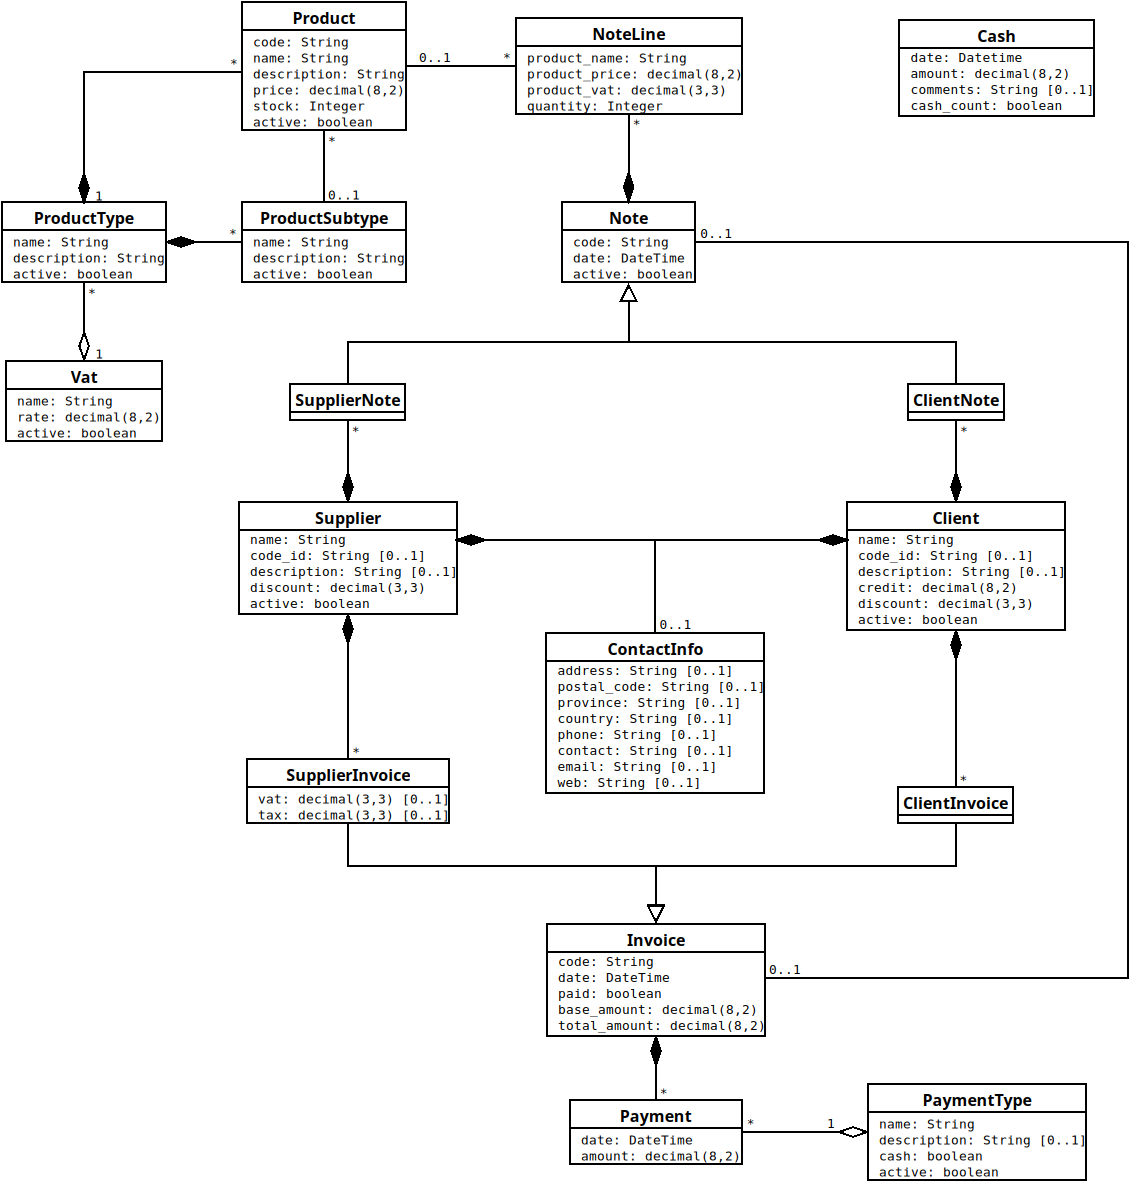
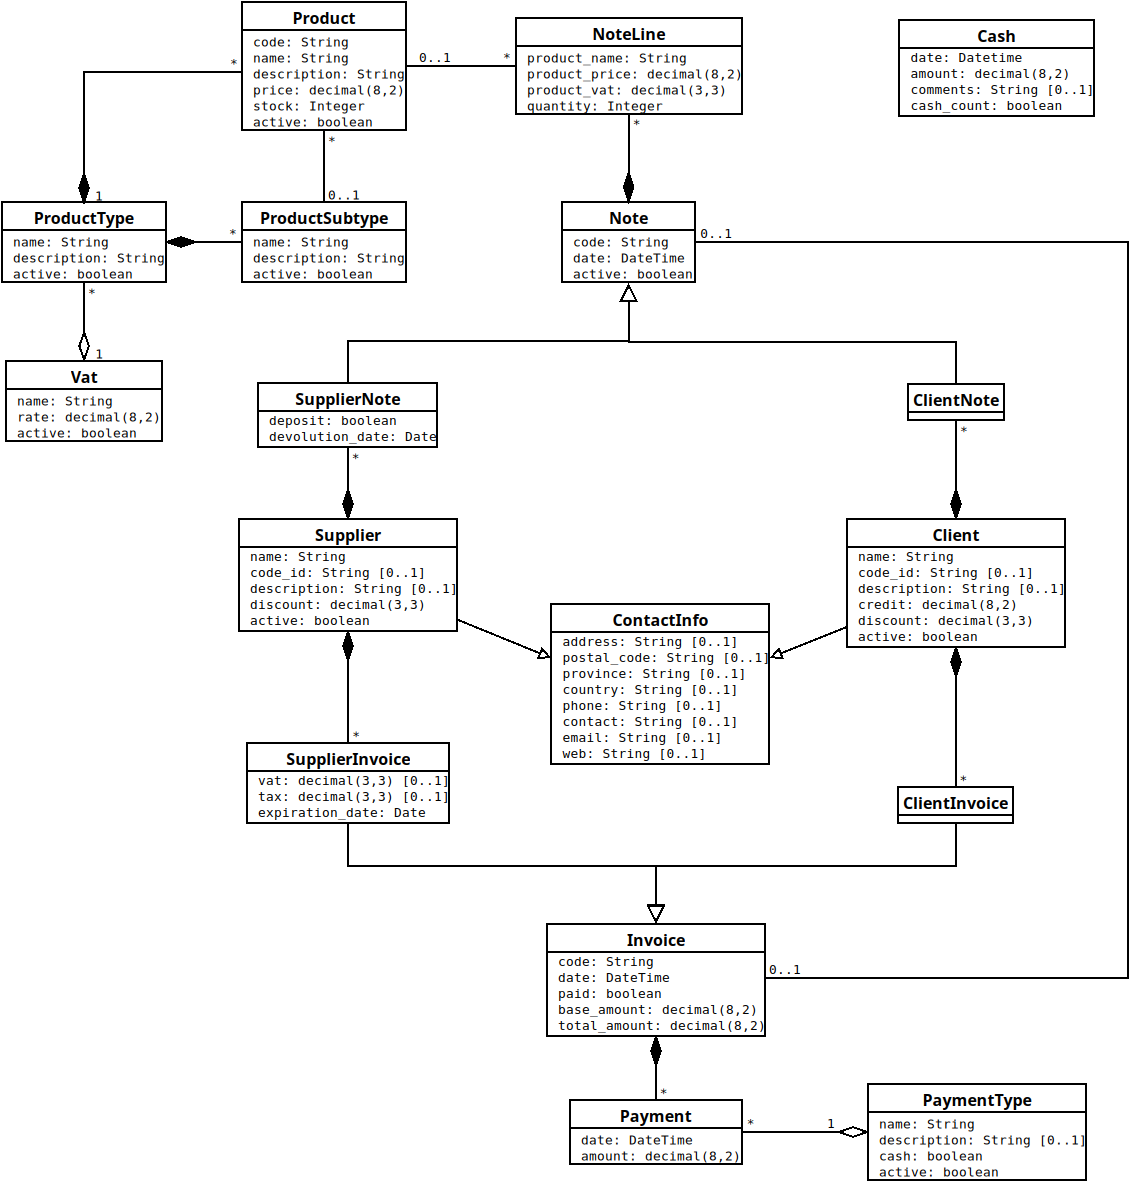
Expiration date for suppliers invoices

diff --git a/db/schema.rb b/db/schema.rb
@@ -49,7 +49,7 @@ ActiveRecord::Schema[8.0].define(version: 2025_08_09_084411) do
     t.string "email"
     t.string "web"
     t.string "contactable_type"
-    t.bigint "contactable_id"
+    t.integer "contactable_id"
     t.datetime "created_at", null: false
     t.datetime "updated_at", null: false
     t.index ["contactable_type", "contactable_id"], name: "index_contact_infos_on_contactable"
@@ -63,10 +63,11 @@ ActiveRecord::Schema[8.0].define(version: 2025_08_09_084411) do
     t.decimal "vat", precision: 3, scale: 3
     t.decimal "tax", precision: 3, scale: 3
     t.boolean "paid", default: false, null: false
-    t.bigint "note_id"
-    t.bigint "client_id"
-    t.bigint "supplier_id"
+    t.integer "note_id"
+    t.integer "client_id"
+    t.integer "supplier_id"
     t.string "type", null: false
+    t.date "expiration_date"
     t.datetime "created_at", null: false
     t.datetime "updated_at", null: false
     t.index ["client_id"], name: "index_invoices_on_client_id"
@@ -79,8 +80,8 @@ ActiveRecord::Schema[8.0].define(version: 2025_08_09_084411) do
     t.decimal "product_price", precision: 8, scale: 2, null: false
     t.decimal "product_vat", precision: 3, scale: 3, null: false
     t.integer "quantity", default: 1, null: false
-    t.bigint "note_id", null: false
-    t.bigint "product_id", null: false
+    t.integer "note_id", null: false
+    t.integer "product_id", null: false
     t.datetime "created_at", null: false
     t.datetime "updated_at", null: false
     t.index ["note_id"], name: "index_note_lines_on_note_id"
@@ -91,8 +92,8 @@ ActiveRecord::Schema[8.0].define(version: 2025_08_09_084411) do
     t.string "code", default: "", null: false
     t.datetime "date"
     t.boolean "active", default: true, null: false
-    t.bigint "client_id"
-    t.bigint "supplier_id"
+    t.integer "client_id"
+    t.integer "supplier_id"
     t.string "type", null: false
     t.boolean "deposit"
     t.date "devolution_date"
@@ -113,8 +114,8 @@ ActiveRecord::Schema[8.0].define(version: 2025_08_09_084411) do
 
   create_table "payments", force: :cascade do |t|
     t.datetime "date"
-    t.bigint "invoice_id", null: false
-    t.bigint "payment_type_id", null: false
+    t.integer "invoice_id", null: false
+    t.integer "payment_type_id", null: false
     t.decimal "amount", precision: 8, scale: 2, null: false
     t.datetime "created_at", null: false
     t.datetime "updated_at", null: false
@@ -126,7 +127,7 @@ ActiveRecord::Schema[8.0].define(version: 2025_08_09_084411) do
     t.string "name", default: "", null: false
     t.string "description"
     t.boolean "active", default: true, null: false
-    t.bigint "product_type_id", null: false
+    t.integer "product_type_id", null: false
     t.datetime "created_at", null: false
     t.datetime "updated_at", null: false
     t.index ["product_type_id"], name: "index_product_subtypes_on_product_type_id"
@@ -136,7 +137,7 @@ ActiveRecord::Schema[8.0].define(version: 2025_08_09_084411) do
     t.string "name", default: "", null: false
     t.string "description"
     t.boolean "active", default: true, null: false
-    t.bigint "vat_id", null: false
+    t.integer "vat_id", null: false
     t.datetime "created_at", null: false
     t.datetime "updated_at", null: false
     t.index ["vat_id"], name: "index_product_types_on_vat_id"
@@ -152,8 +153,8 @@ ActiveRecord::Schema[8.0].define(version: 2025_08_09_084411) do
     t.string "image_url"
     t.decimal "price", precision: 8, scale: 2, null: false
     t.integer "stock", default: 0, null: false
-    t.bigint "product_type_id", null: false
-    t.bigint "product_subtype_id"
+    t.integer "product_type_id", null: false
+    t.integer "product_subtype_id"
     t.boolean "active", default: true, null: false
     t.datetime "created_at", null: false
     t.datetime "updated_at", null: false

diff --git a/test/models/supplier_invoice_test.rb b/test/models/supplier_invoice_test.rb
@@ -6,7 +6,8 @@ class SupplierInvoiceTest < ActiveSupport::TestCase
       code: 'INV001-01',
       date: Date.today,
       base_amount: 100,
-      total_amount: 121
+      total_amount: 121,
+      expiration_date: Date.today + 30
     )
     supplier_invoice.valid?
     assert supplier_invoice.errors[:supplier].any?
@@ -21,6 +22,7 @@ class SupplierInvoiceTest < ActiveSupport::TestCase
       base_amount: 100,
       total_amount: 121,
       supplier: supplier,
+      expiration_date: Date.today + 30,
       note: notes(:two)
     )
 
@@ -30,6 +32,7 @@ class SupplierInvoiceTest < ActiveSupport::TestCase
       base_amount: 100,
       total_amount: 121,
       supplier: supplier,
+      expiration_date: Date.today + 30,
       note: notes(:two)
     )
     duplicate.valid?
@@ -42,6 +45,7 @@ class SupplierInvoiceTest < ActiveSupport::TestCase
       date: Date.today,
       base_amount: 100,
       total_amount: 121,
+      expiration_date: Date.today + 30,
       supplier: suppliers(:one),
       note: notes(:two)
     )
@@ -54,11 +58,23 @@ class SupplierInvoiceTest < ActiveSupport::TestCase
       date: Date.today,
       base_amount: 100,
       total_amount: 121,
+      expiration_date: Date.today + 30,
       supplier: suppliers(:one),
       vat: 21.0,
       tax: 10.0
     )
     assert supplier_invoice.valid?
+  end
+
+  test "should not save supplier_invoice without expiration_date" do
+    supplier_invoice = SupplierInvoice.new(
+      code: 'INV001-01',
+      date: Date.today,
+      base_amount: 100,
+      total_amount: 121
+    )
+    supplier_invoice.valid?
+    assert supplier_invoice.errors[:expiration_date].any?
   end
 
   test "should have valid associations" do

diff --git a/app/models/supplier_invoice.rb b/app/models/supplier_invoice.rb
@@ -2,6 +2,7 @@ class SupplierInvoice < Invoice
   belongs_to :supplier
 
   validates :supplier, presence: true
+  validates :expiration_date, presence: true
   validate :code_must_be_unique_for_supplier
   validate :note_or_vat_and_taxes
 

diff --git a/db/migrate/20250807233736_create_invoice.rb b/db/migrate/20250807233736_create_invoice.rb
@@ -12,6 +12,8 @@ class CreateInvoice < ActiveRecord::Migration[8.0]
       t.references :client
       t.references :supplier
       t.string :type, null: false
+      t.date :expiration_date
+      
       t.timestamps
     end
   end
